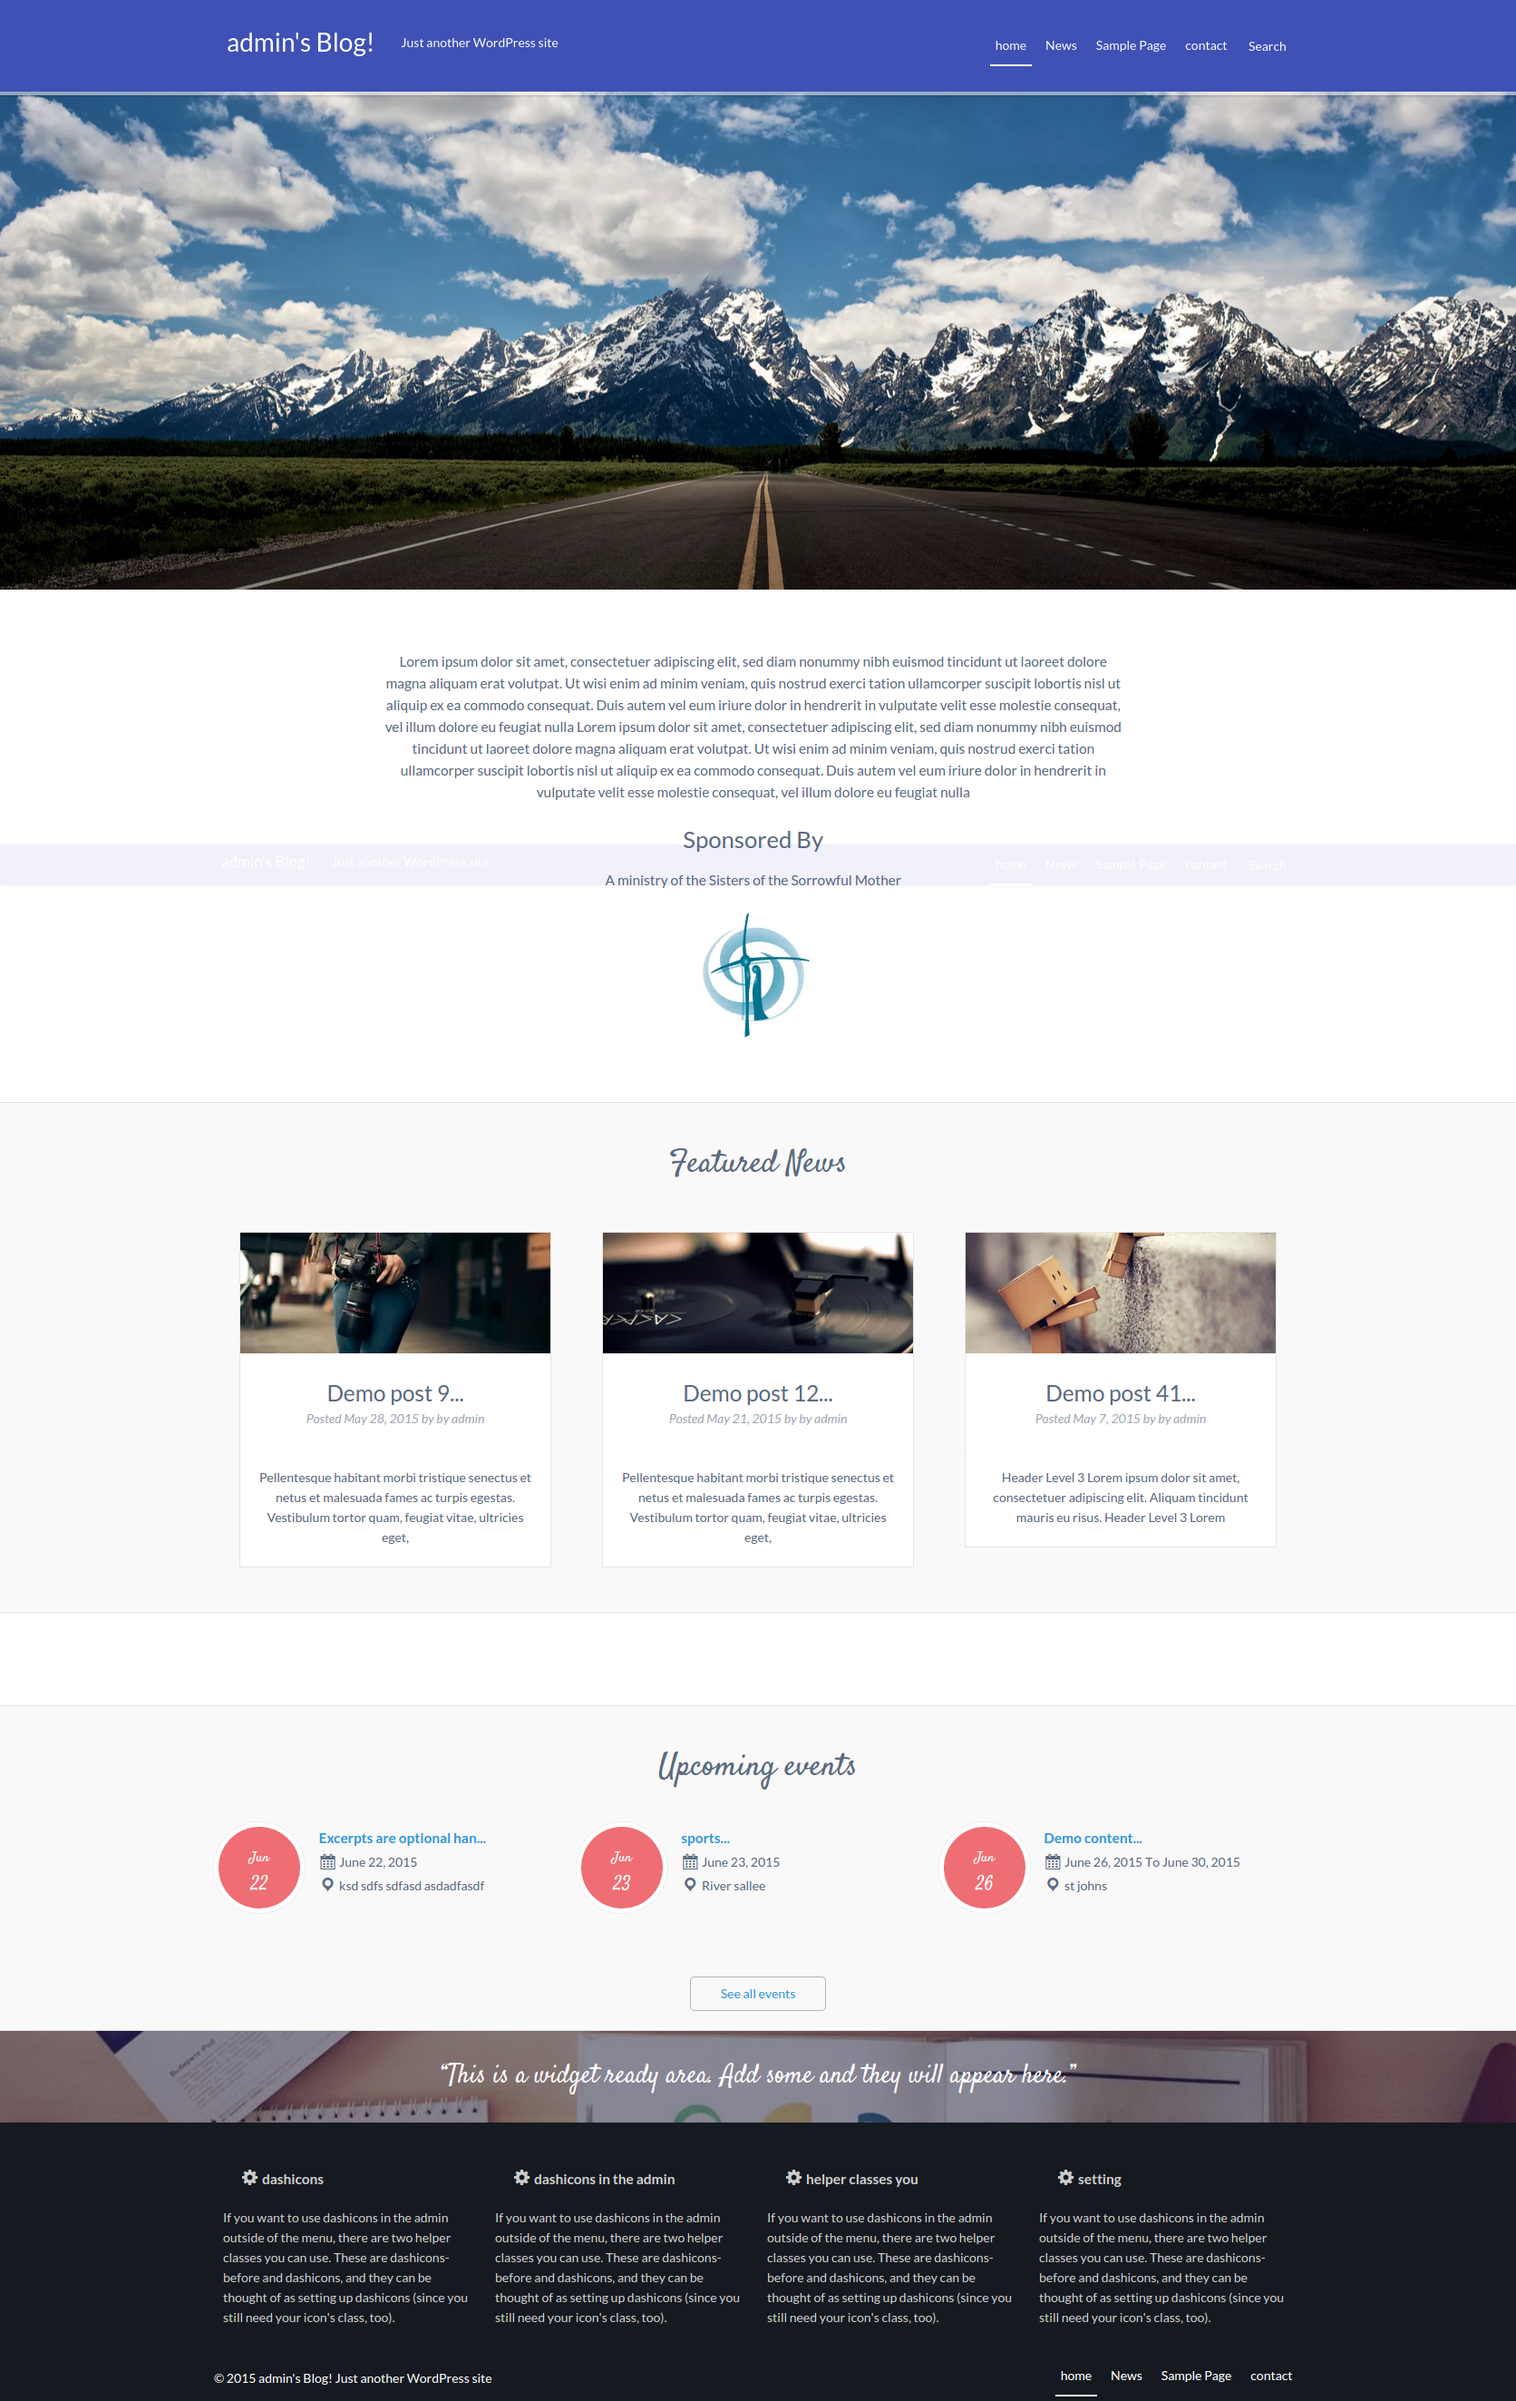
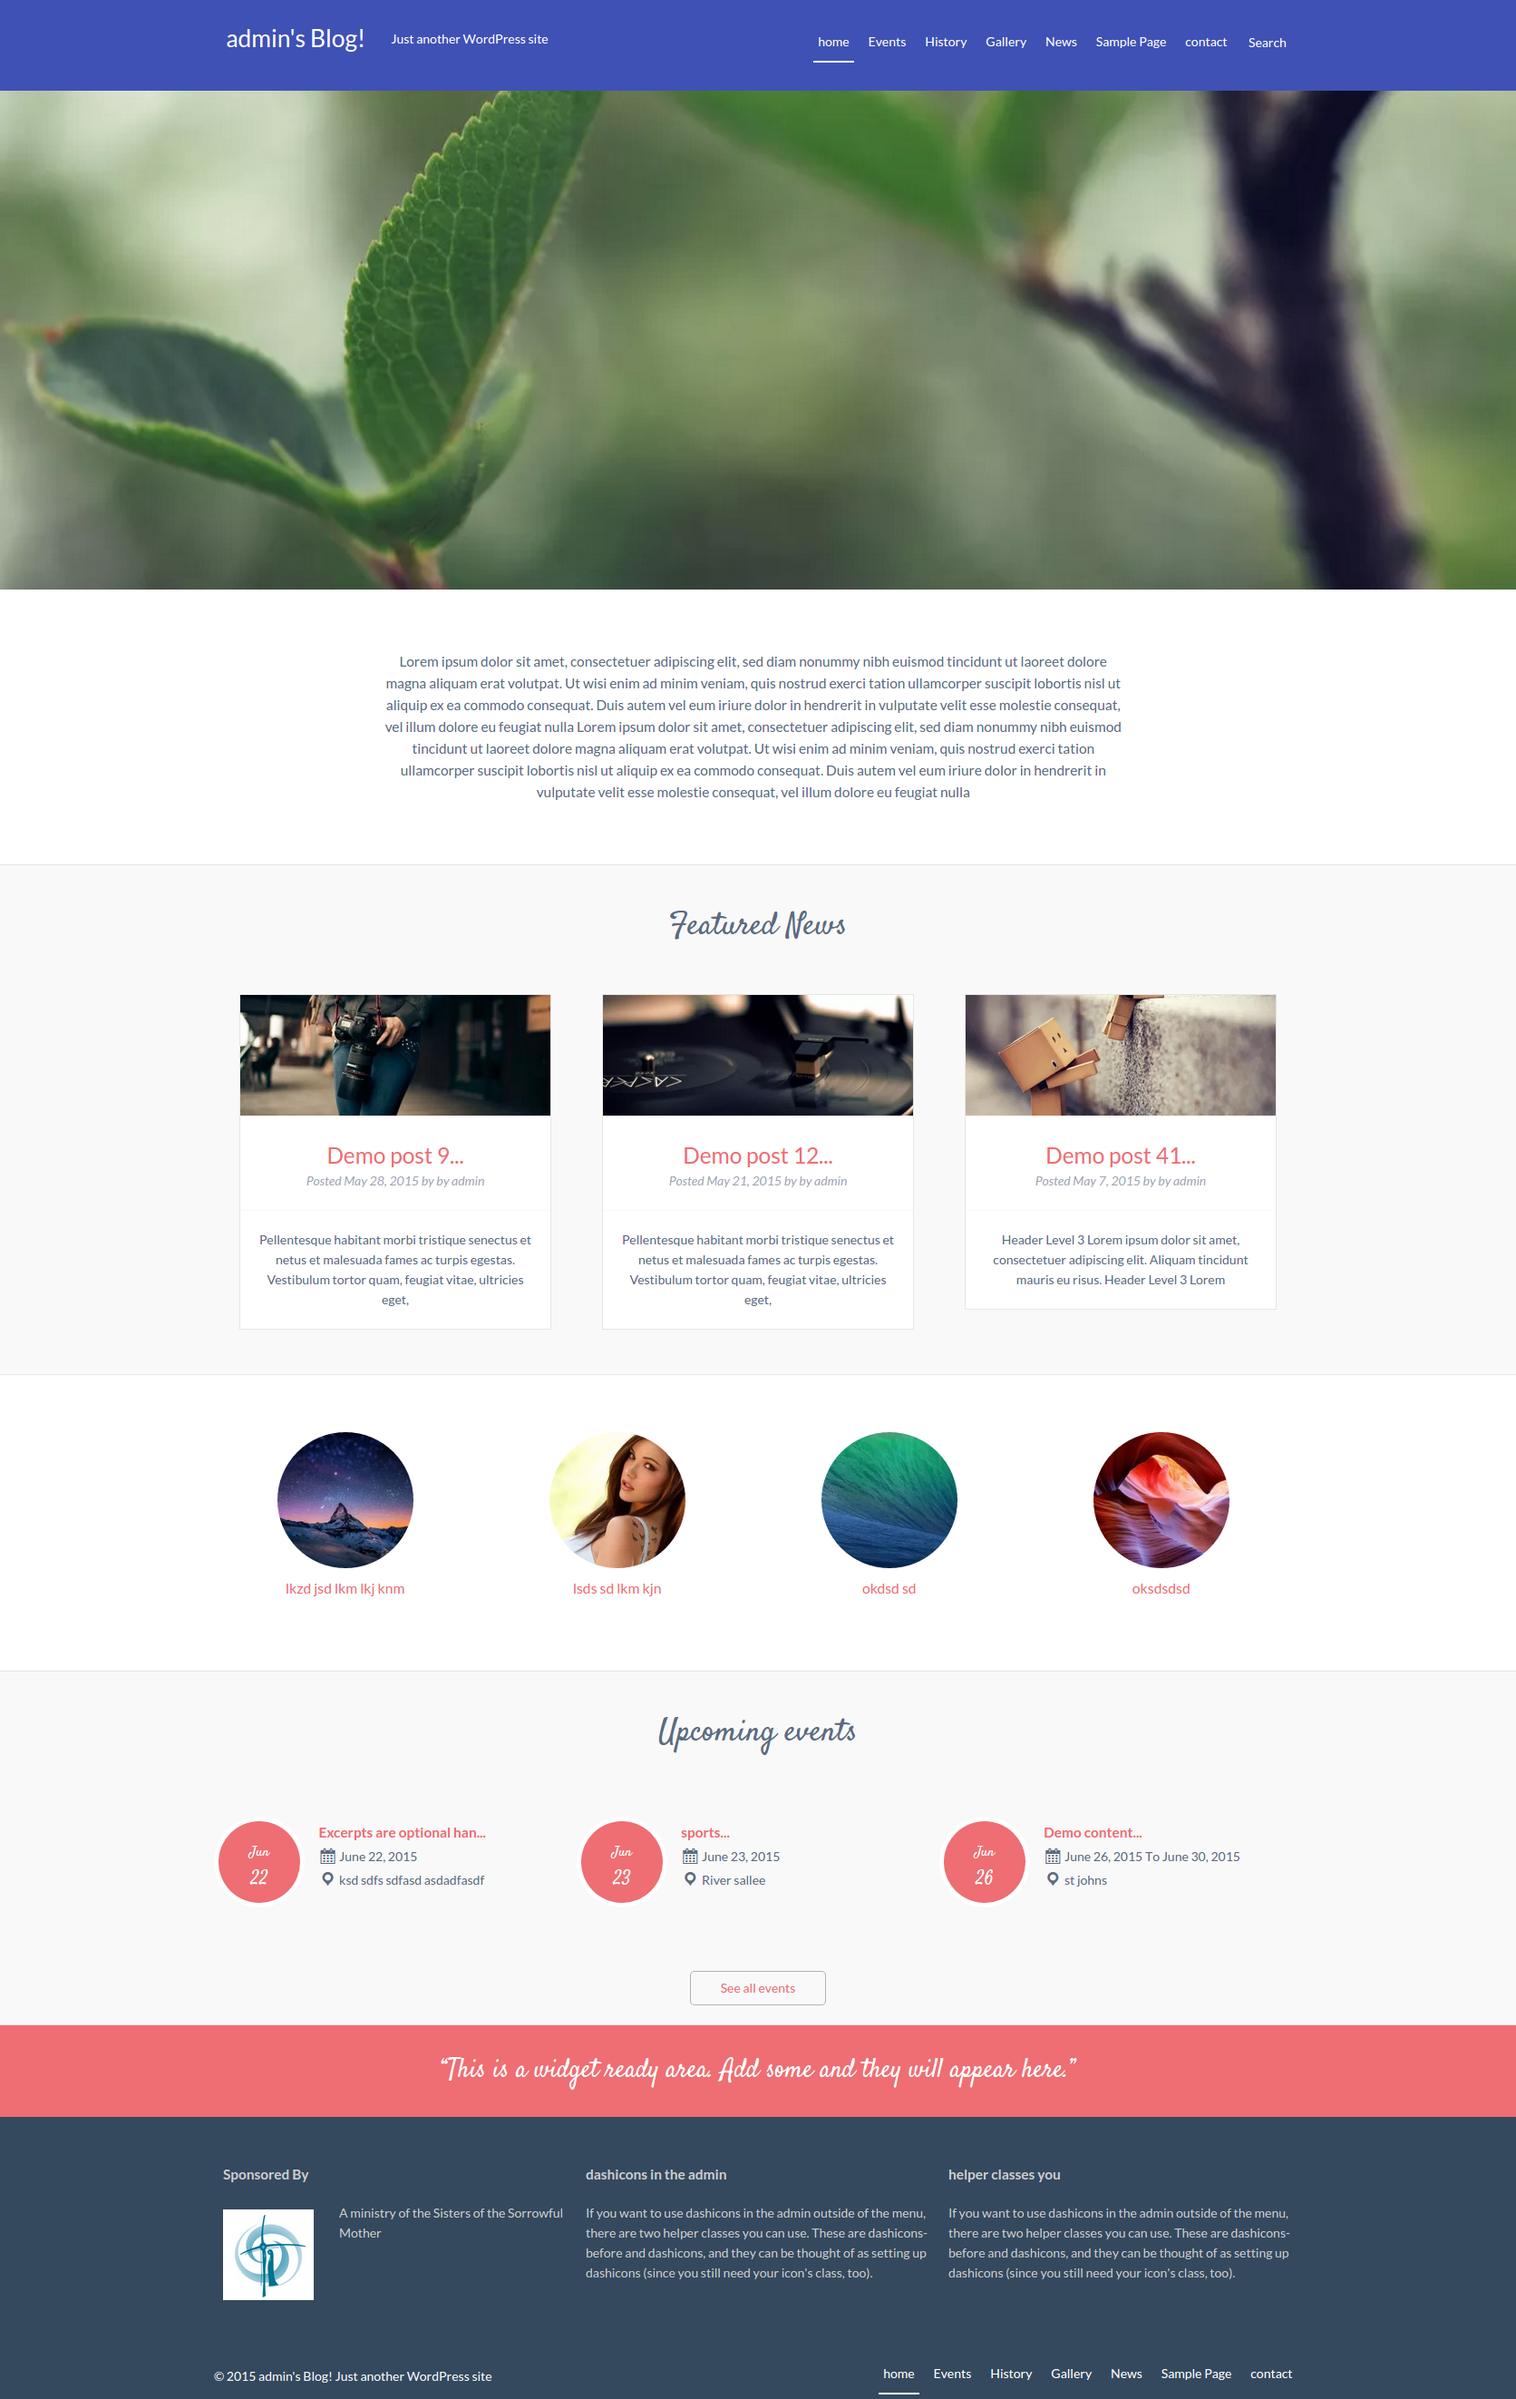
update

diff --git a/library/css/style.css b/library/css/style.css
@@ -1187,6 +1187,11 @@ article img {
   max-width: 100%;
 }
 
+.srp-thumbnail-box img {
+  height: auto;
+  border-radius: 50%;
+}
+
 /*********************
 IMPORTING MODULES
 Modules are reusable blocks or elements we use throughout the project.

diff --git a/library/scss/breakpoints/_base.scss b/library/scss/breakpoints/_base.scss
@@ -964,12 +964,6 @@ contact form 7
 //LOGO
 
 .logo-img {
-	background-image: url(../images/logo.jpg);
-  	height: 100px;
-  	width: 100px;
-  	display: block;
-	float: none;
-	margin: 0 auto;
 } 
 
 .description {

diff --git a/library/scss/partials/_post_format.scss b/library/scss/partials/_post_format.scss
@@ -200,3 +200,8 @@
 article img {
 	max-width: 100%;
 }
+
+.srp-thumbnail-box img {
+  	height: auto;
+  	border-radius: 50%; 
+}

diff --git a/plugins/kgp-strose-widgets/strose-gallery/strose-gallery.php b/plugins/kgp-strose-widgets/strose-gallery/strose-gallery.php
@@ -81,6 +81,93 @@ function strose_single_archive($single_template) {
 }
 add_filter( 'single_template', 'strose_single_archive' );
 
+
+if ( ! function_exists( 'kgp_stroes_gallery_cat_taxonomy' ) ) {
+
+// Register Custom Taxonomy
+function kgp_stroes_gallery_cat_taxonomy() {
+
+	$labels = array(
+		'name'                       => _x( 'Categories', 'Taxonomy General Name', 'strose' ),
+		'singular_name'              => _x( 'Categorie', 'Taxonomy Singular Name', 'strose' ),
+		'menu_name'                  => __( 'Categories', 'strose' ),
+		'all_items'                  => __( 'All Categories', 'strose' ),
+		'parent_item'                => __( 'Parent Categorie', 'strose' ),
+		'parent_item_colon'          => __( 'Parent Categorie:', 'strose' ),
+		'new_item_name'              => __( 'New Item Name', 'strose' ),
+		'add_new_item'               => __( 'Add New Categorie', 'strose' ),
+		'edit_item'                  => __( 'Edit Categorie', 'strose' ),
+		'update_item'                => __( 'Update Categories', 'strose' ),
+		'view_item'                  => __( 'View Categorie', 'strose' ),
+		'separate_items_with_commas' => __( 'Separate Categories with commas', 'strose' ),
+		'add_or_remove_items'        => __( 'Add or remove Categories', 'strose' ),
+		'choose_from_most_used'      => __( 'Choose from the most used', 'strose' ),
+		'popular_items'              => __( 'Popular Categories', 'strose' ),
+		'search_items'               => __( 'Search Categories', 'strose' ),
+		'not_found'                  => __( 'Categorie Not Found', 'strose' ),
+	);
+	$args = array(
+		'labels'                     => $labels,
+		'hierarchical'               => true,
+		'public'                     => true,
+		'show_ui'                    => true,
+		'show_admin_column'          => true,
+		'show_in_nav_menus'          => true,
+		'show_tagcloud'              => true,
+	);
+	register_taxonomy( 'taxonomy_cate', array( 'gallery' ), $args );
+
+}
+
+// Hook into the 'init' action
+add_action( 'init', 'kgp_stroes_gallery_cat_taxonomy', 0 );
+
+}
+
+
+if ( ! function_exists( 'kgp_stroes_gallery_tags_taxonomy' ) ) {
+
+// Register Custom Taxonomy
+function kgp_stroes_gallery_tags_taxonomy() {
+
+	$labels = array(
+		'name'                       => _x( 'Tags', 'Taxonomy General Name', 'strose' ),
+		'singular_name'              => _x( 'Tag', 'Taxonomy Singular Name', 'strose' ),
+		'menu_name'                  => __( 'Tags', 'strose' ),
+		'all_items'                  => __( 'All Tags', 'strose' ),
+		'parent_item'                => __( 'Parent Tag', 'strose' ),
+		'parent_item_colon'          => __( 'Parent Tag:', 'strose' ),
+		'new_item_name'              => __( 'New Tag Name', 'strose' ),
+		'add_new_item'               => __( 'Add New Tag', 'strose' ),
+		'edit_item'                  => __( 'Edit Tag', 'strose' ),
+		'update_item'                => __( 'Update Tags', 'strose' ),
+		'view_item'                  => __( 'View Tag', 'strose' ),
+		'separate_items_with_commas' => __( 'Separate Tags with commas', 'strose' ),
+		'add_or_remove_items'        => __( 'Add or remove Tags', 'strose' ),
+		'choose_from_most_used'      => __( 'Choose from the most used Tags', 'strose' ),
+		'popular_items'              => __( 'Popular Tags', 'strose' ),
+		'search_items'               => __( 'Search Tags', 'strose' ),
+		'not_found'                  => __( 'Tag Not Found', 'strose' ),
+	);
+	$args = array(
+		'labels'                     => $labels,
+		'hierarchical'               => true,
+		'public'                     => true,
+		'show_ui'                    => true,
+		'show_admin_column'          => true,
+		'show_in_nav_menus'          => true,
+		'show_tagcloud'              => true,
+	);
+	register_taxonomy( 'taxonomy_tags', array( 'gallery' ), $args );
+
+}
+
+// Hook into the 'init' action
+add_action( 'init', 'kgp_stroes_gallery_tags_taxonomy', 1 );
+
+}
+
+// include gallery loop for home page 
 include 'home-gallery.php';
 
 ?>

diff --git a/page-history.php b/page-history.php
@@ -15,26 +15,26 @@
 
 <?php get_header(); ?>
 
-						<?php if (have_posts()) : while (have_posts()) : the_post(); ?>
+	<?php if (have_posts()) : while (have_posts()) : the_post(); ?>
 
-							<h1 class="title-page"><?php the_title();?></h1>
+		<h1 class="title-page"><?php the_title();?></h1>
 
-							<?php the_content(); ?>							
+		<?php the_content(); ?>							
 
-							<?php endwhile; else : ?>
+	<?php endwhile; else : ?>
 
-									<article id="post-not-found" class="hentry cf wow fadeInUp">
-										<header class="article-header">
-											<h1><?php _e( 'Oops, Post Not Found!', 'strose' ); ?></h1>
-										</header>
-										<section class="entry-content">
-											<p><?php _e( 'Uh Oh. Something is missing. Try double checking things.', 'strose' ); ?></p>
-										</section>
-										<footer class="article-footer">
-												<p><?php _e( 'This is the error message in the page.php template.', 'strose' ); ?></p>
-										</footer>
-									</article>
-
-							<?php endif; ?>
+		<article id="post-not-found" class="hentry cf wow fadeInUp">
+			<header class="article-header">
+				<h1><?php _e( 'Oops, Post Not Found!', 'strose' ); ?></h1>
+			</header>
+			<section class="entry-content">
+				<p><?php _e( 'Uh Oh. Something is missing. Try double checking things.', 'strose' ); ?></p>
+			</section>
+			<footer class="article-footer">
+				<p><?php _e( 'This is the error message in the page.php template.', 'strose' ); ?></p>
+			</footer>
+		</article>
+		
+	<?php endif; ?>
 
 <?php get_footer(); ?>

diff --git a/functions.php b/functions.php
@@ -30,8 +30,6 @@ function bones_ahoy() {
   // USE THIS TEMPLATE TO CREATE CUSTOM POST TYPES EASILY
   //require_once( 'library/custom-post-type.php' );
 
-  //require_once( 'library/gallery.php' );
-
   // launching operation cleanup
   add_action( 'init', 'bones_head_cleanup' );
   // A better title
@@ -132,8 +130,8 @@ add_filter( 'image_size_names_choose', 'bones_custom_image_sizes' );
 
 function bones_custom_image_sizes( $sizes ) {
     return array_merge( $sizes, array(
-        'bones-thumb-600' => __('600px by 150px'),
-        'bones-thumb-300' => __('300px by 100px'),
+        'bones-thumb-600' => __('600px by 150px', 'strose'),
+        'bones-thumb-300' => __('300px by 100px', 'strose'),
     ) );
 }
 
@@ -354,6 +352,5 @@ add_action('wp_enqueue_scripts', 'bones_fonts');
 		'search-form',
 		'comment-form'
 	) );
-
-/* DON'T DELETE THIS CLOSING TAG */ ?>
+?>
 

diff --git a/page-home.php b/page-home.php
@@ -49,7 +49,7 @@
 								if (function_exists('kgp_strose_gallery_plugin')) {
 									kgp_strose_gallery_plugin();
 								} else {
-									echo "not found";
+									echo '<div class="no-widgets"><h2>St. Rose Gallery widget is not install</h2></div>';
 								}
 
 							?>	
@@ -67,7 +67,7 @@
 			if (function_exists('kgp_strose_event_plugin')) {
 				kgp_strose_event_plugin();
 			} else {
-				echo "not found";
+				echo '<div class="no-widgets"><h2>St. Rose Event wifget is not install</h2></div>';
 			}
 
 		?>	

diff --git a/readme.md b/readme.md
@@ -3,6 +3,23 @@ alt="thumbnail" />
 
 ##Plugins
 
+
+[All In One SEO Pack](https://wordpress.org/plugins/all-in-one-seo-pack/)
+
+[Better WordPress Recent Comments](https://wordpress.org/plugins/bwp-recent-comments/)
+
+[Cleaner Gallery](https://wordpress.org/plugins/cleaner-gallery/)
+
+[Custom Post Widget](https://wordpress.org/plugins/custom-post-widget/)
+
+[Google Analytics by Yoast](https://wordpress.org/plugins/google-analytics-for-wordpress/)
+
+[Knight Lab TimelineJS](https://wordpress.org/plugins/knight-lab-timelinejs/)
+
+[Resize Image After Upload](https://wordpress.org/plugins/resize-image-after-upload/)
+
+[Special Recent Posts FREE Edition](https://wordpress.org/plugins/special-recent-posts/)
+
 [Contact Form 7](https://wordpress.org/plugins/contact-form-7/)
 
 [Image Zoom](https://wordpress.org/plugins/image-zoom/)
